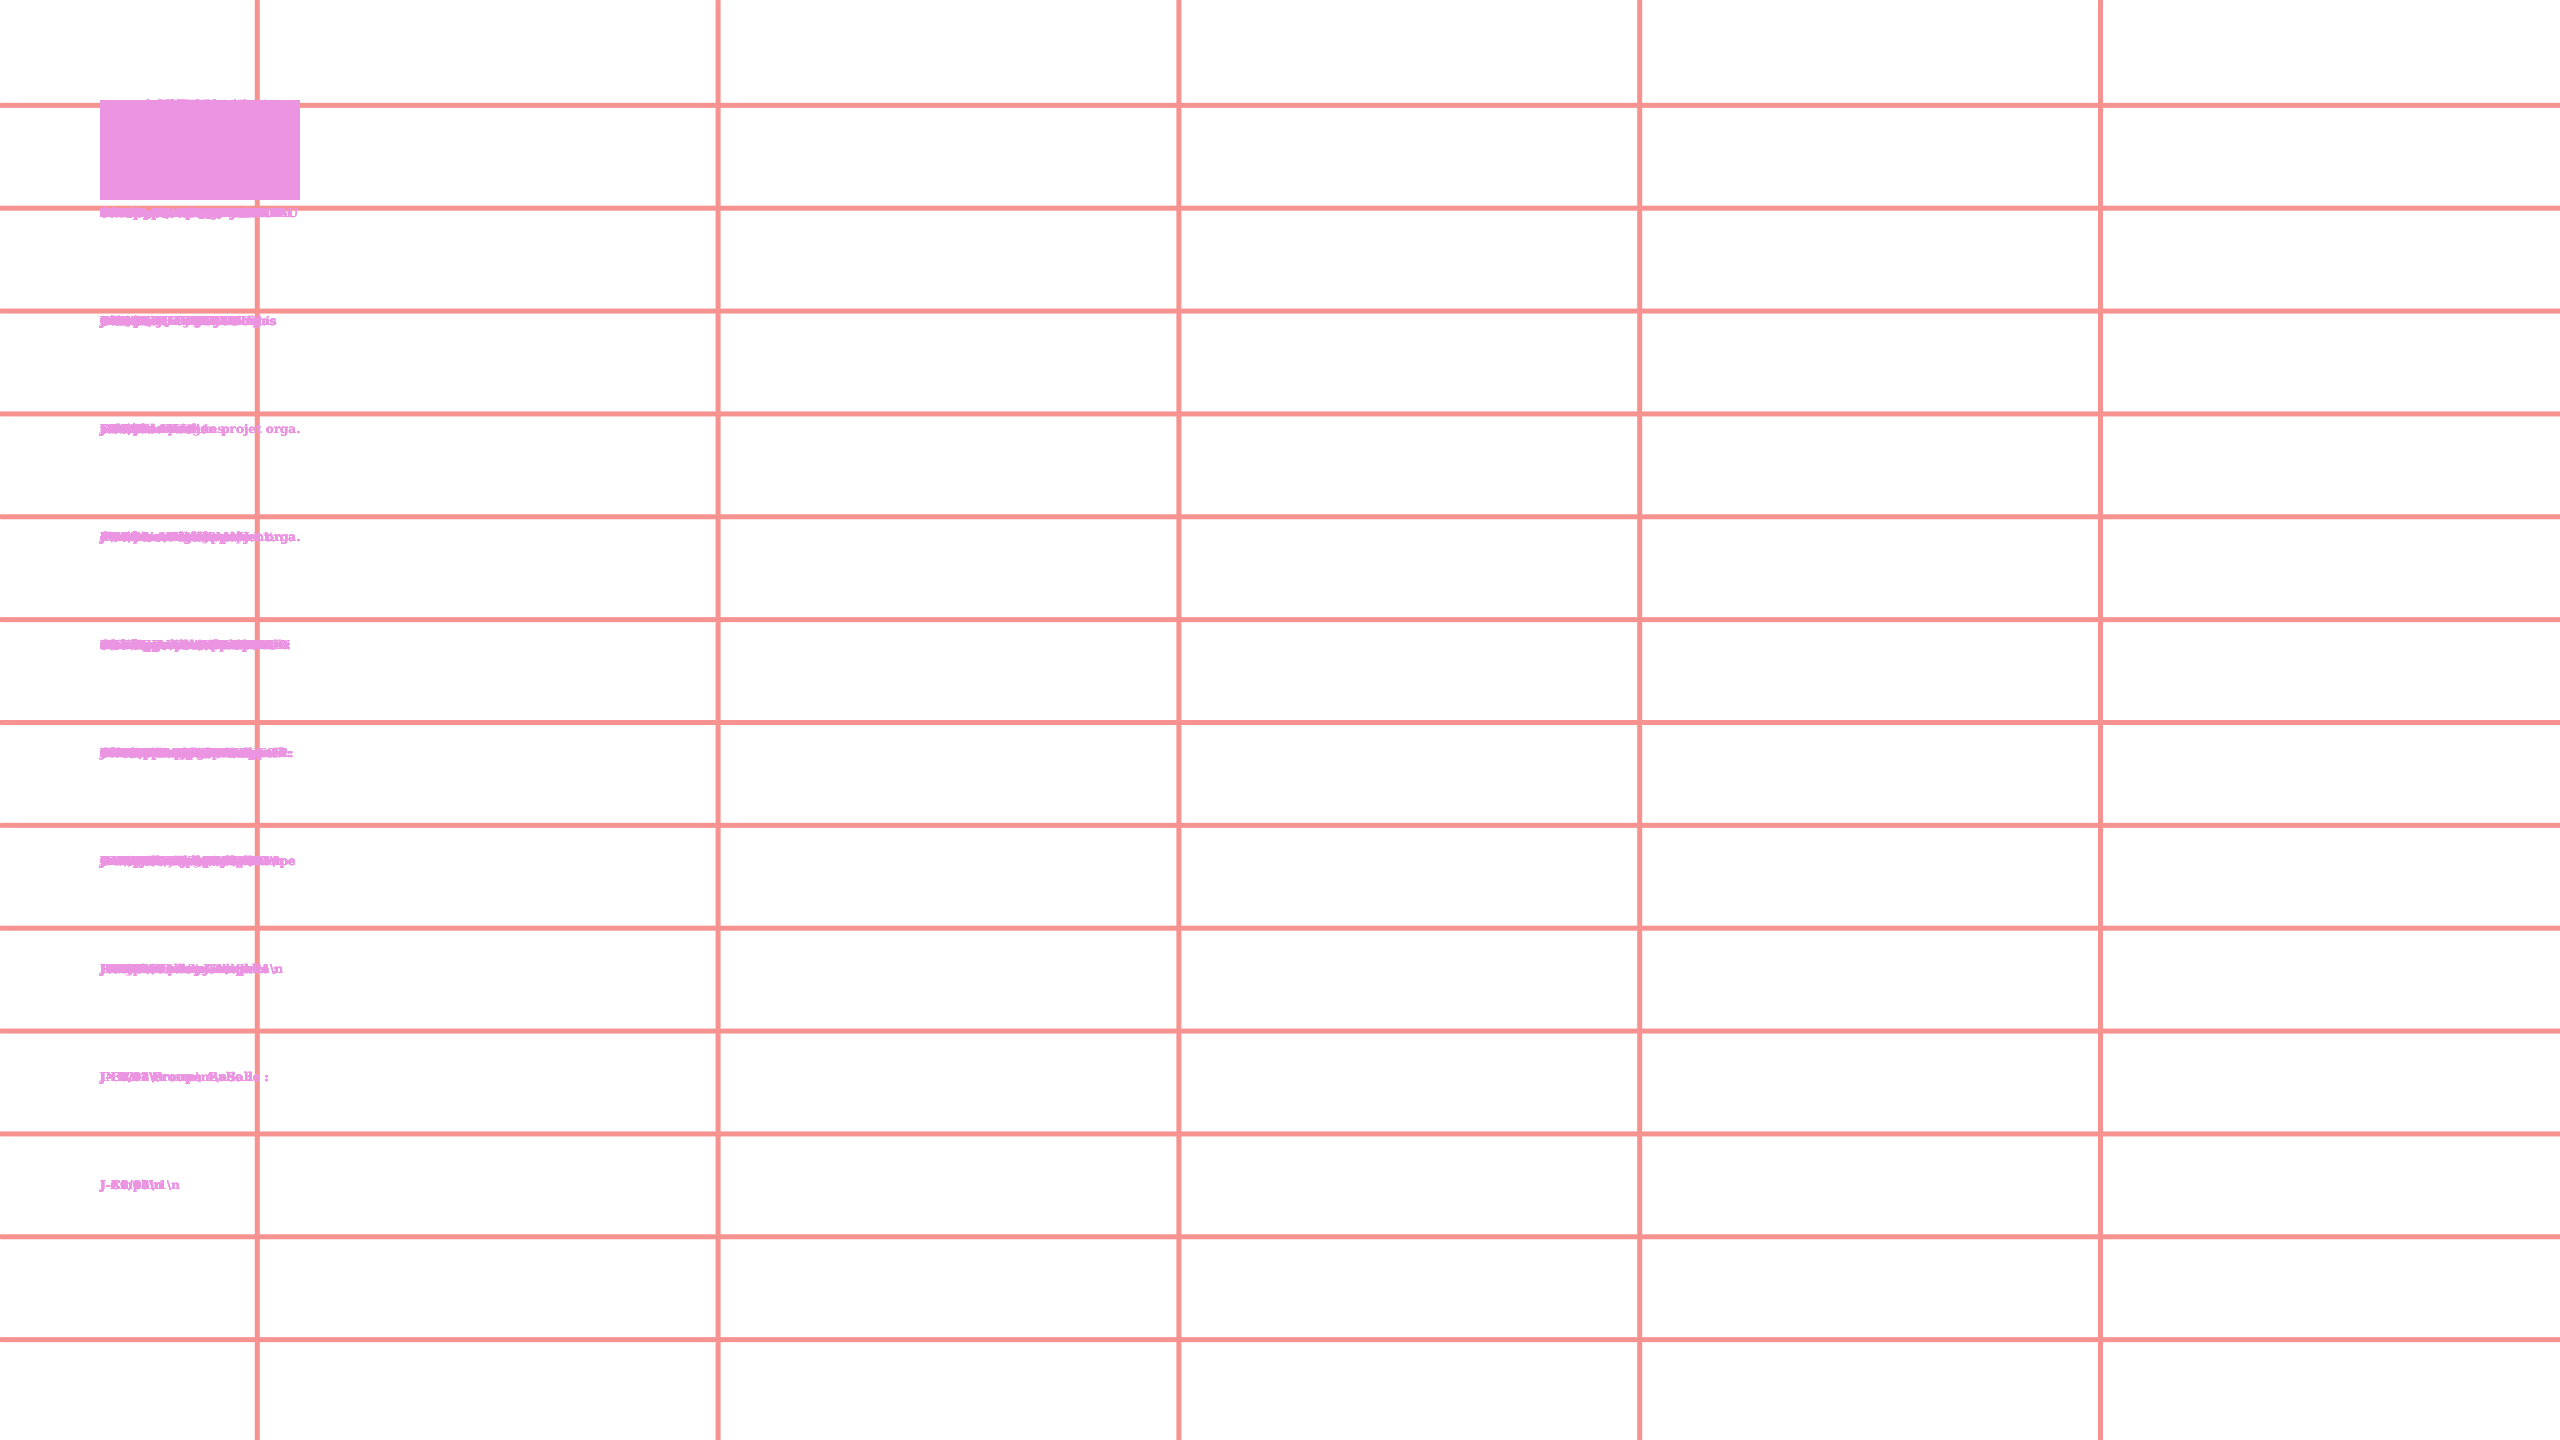
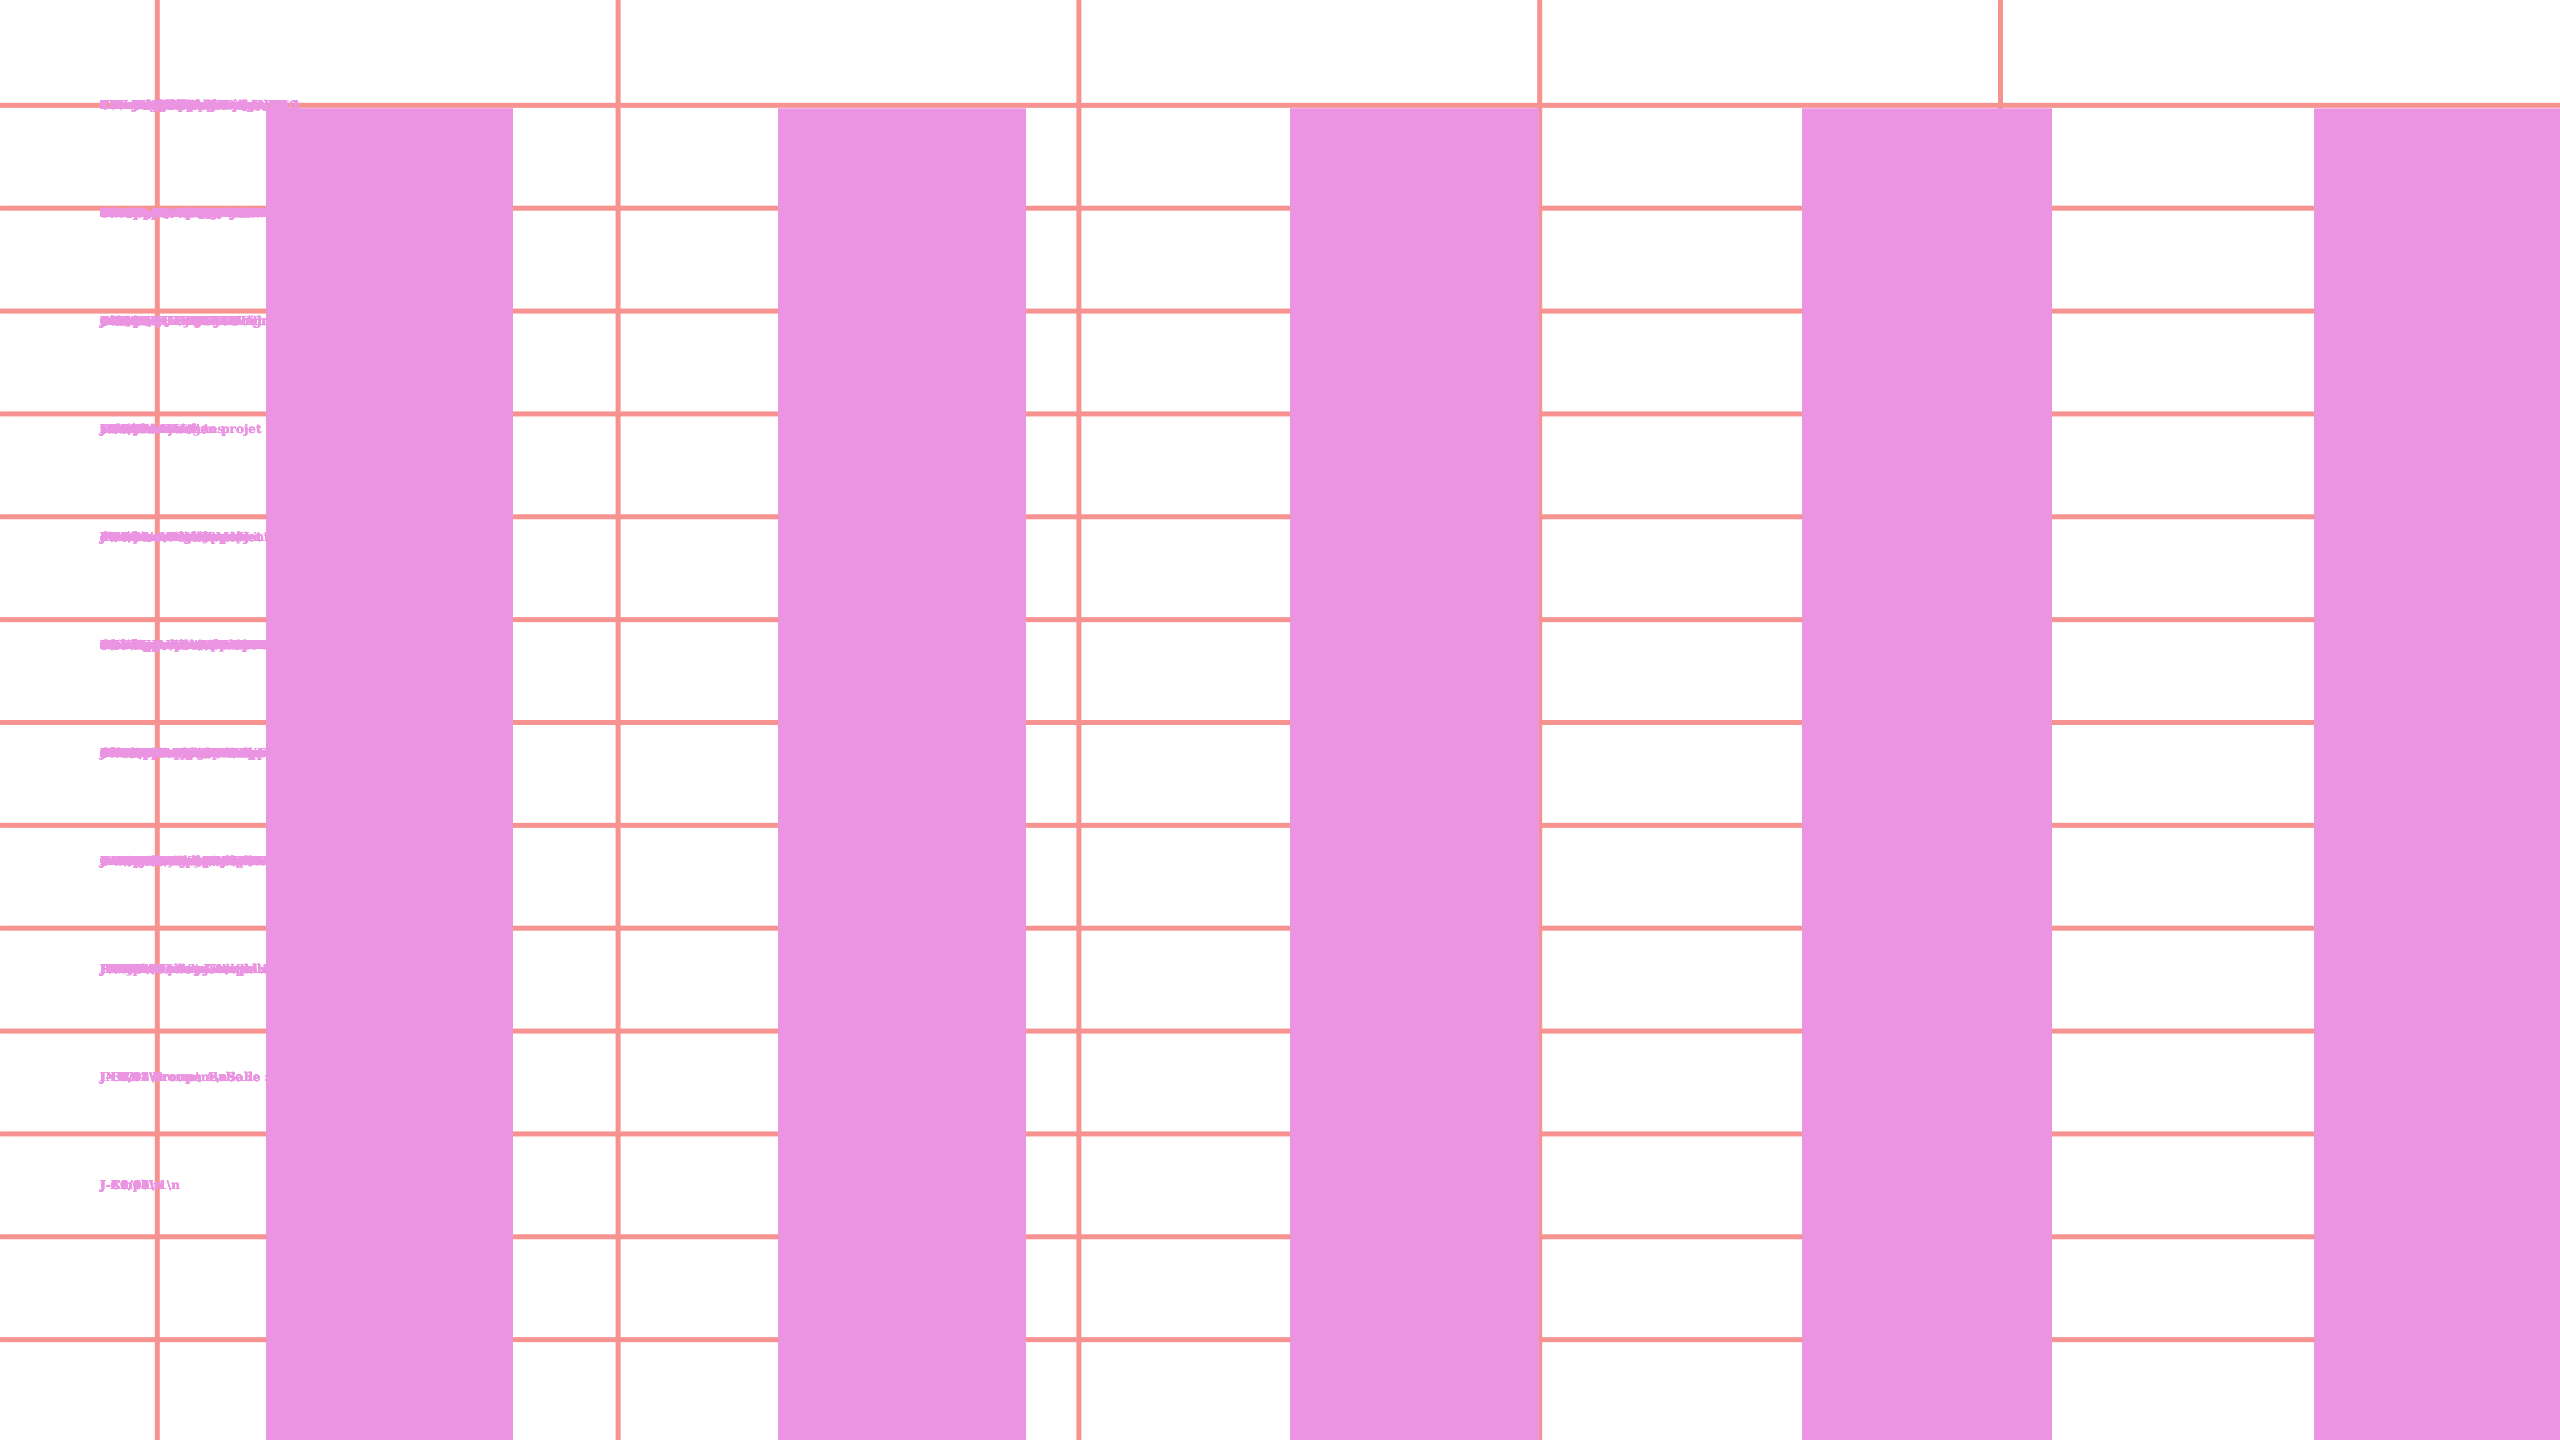
+ func timeStringToHours

diff --git a/generator.go b/generator.go
@@ -11,6 +11,7 @@ import (
 	"encoding/json"
     "image/color"
     "github.com/fogleman/gg"
+    "strconv"
 )
 
 //
@@ -182,14 +183,14 @@ func CalendarGeneration(picturesFolder, newJSONname, mainColor, textColor, markC
     fmt.Println(markHexColor)
     // Dessiner les barres horaires
     dc.SetColor(scdHexColor)
-    x_offset := 0.1 * width - 50
+    x_offset := 0.1 * width
     for i := 8; i <= 20; i++ {
         y := float64(i-7) * height / 14 + lineWidth/2
         dc.DrawLine( 0, y, width, y)
         dc.Stroke()
     }
     for i:= 1; i <= 5; i++ {
-        x := float64(i) * width / 5 * 0.9 + lineWidth/2 - (x_offset)
+        x := float64(i) * width / 5 * 0.9 + lineWidth/2 - (x_offset) - 50
         dc.DrawLine(x, 0, x, height)
         dc.Stroke()
     }
@@ -199,16 +200,38 @@ func CalendarGeneration(picturesFolder, newJSONname, mainColor, textColor, markC
     dc.LoadFontFace("/usr/share/fonts/truetype/dejavu/DejaVuSerif-Bold.ttf", 12) // Spécifiez le chemin de votre police de caractères
 
     for _, event := range events {
-        //fmt.Println(event)
         // Dessiner le rectangle de l'événement avec la couleur principale
         DtStart_data := event.DtStart
         DtEnd_data := event.DtEnd
+
         fmt.Println(DtEnd_data, DtStart_data)
+
         dtstart_date_data, _ := extractDate(DtStart_data)
         dtstart_hour_data, _ := extractHour(DtStart_data)
-        fmt.Println(dtstart_date_data, dtstart_hour_data)
+        dtend_hour_data, _ := extractHour(DtEnd_data)
+
+        x1_placement_var, err := getDayOfWeek(dtstart_date_data)
+        if err != nil {
+            fmt.Println("Erreur:", err)
+        }
+        y1_placement_var, err := timeStringToHours(dtstart_hour_data)
+        if err != nil {
+            fmt.Println("Erreur:", err)
+        }
+        y2_placement_var, err := timeStringToHours(dtend_hour_data)
+        if err != nil {
+            fmt.Println("Erreur:", err)
+        }
+
+        x1_placement := x1_placement_var * width / 5 - (x_offset)
+        x2_placement := x1_placement_var + 1 * width / 5 - (x_offset)
+        y1_placement := y1_placement_var * height / 14 - 7 * (height / 14)
+        y2_placement := y2_placement_var * height / 14 - 7 * (height / 14)
+        fmt.Println(y1_placement, y2_placement)
+
+
         dc.SetColor(mainHexColor)
-        dc.DrawRectangle(100, 100, 200, 100) // Spécifiez les coordonnées et les dimensions de votre rectangle
+        dc.DrawRectangle(x1_placement + 10, y1_placement, x2_placement - 10, y2_placement) // Spécifiez les coordonnées et les dimensions de votre rectangle
         dc.Fill()
 
         // Écrire le nom, le lieu et la description de l'événement avec la couleur du texte
@@ -287,7 +310,7 @@ func extractHour(input string) (string, error) {
     return hourStr, nil
 }
 
-func getDayOfWeek(inputDate string) (int, error) {
+func getDayOfWeek(inputDate string) (float64, error) {
     // Convertir la chaîne d'entrée au format "YYYYMMDD" en une valeur de type time.Time
     date, err := time.Parse("20060102", inputDate)
     if err != nil {
@@ -295,7 +318,7 @@ func getDayOfWeek(inputDate string) (int, error) {
     }
 
     // Obtenir le jour de la semaine (0 = dimanche, 1 = lundi, ..., 6 = samedi)
-    dayOfWeek := int(date.Weekday())
+    dayOfWeek := float64(date.Weekday())
 
     // Remapper le dimanche de 0 à 7
     if dayOfWeek == 0 {
@@ -304,6 +327,40 @@ func getDayOfWeek(inputDate string) (int, error) {
 
     return dayOfWeek, nil
 }
+
+func timeStringToHours(input string) (float64, error) {
+    // Assurez-vous que la chaîne d'entrée a une longueur valide (HHMMSS)
+    if len(input) != 6 {
+        return 0, fmt.Errorf("Problème de la chaine d'entrée: pas sous format (HHMMSS)")
+    }
+
+    // Extraire les heures, les minutes et les secondes de la chaîne d'entrée
+    hoursStr := input[0:2]
+    minutesStr := input[2:4]
+    secondsStr := input[4:6]
+
+    // Convertir les parties de la chaîne en entiers
+    hours, err := strconv.Atoi(hoursStr)
+    if err != nil {
+        return 0, err
+    }
+
+    minutes, err := strconv.Atoi(minutesStr)
+    if err != nil {
+        return 0, err
+    }
+
+    seconds, err := strconv.Atoi(secondsStr)
+    if err != nil {
+        return 0, err
+    }
+
+    // Calculer le nombre total de minutes
+    totalHours := float64(hours + minutes/60) + float64(seconds)/3600.0
+
+    return totalHours, nil
+}
+
 
 // Fonction pour analyser une couleur hexadécimale au format #RRGGBB
 func parseHexColor(hexColor string) color.RGBA {
@@ -356,7 +413,6 @@ func main() { // now for debogging
     markColor := "#FFE6FF"                                          // mark color       (HEXA)
 	var newFilename string  
     var newJSONname string
-    var atsu int
 
     newFilename, err := getICS(url, calendarsFolder, filename)
     if err != nil {
